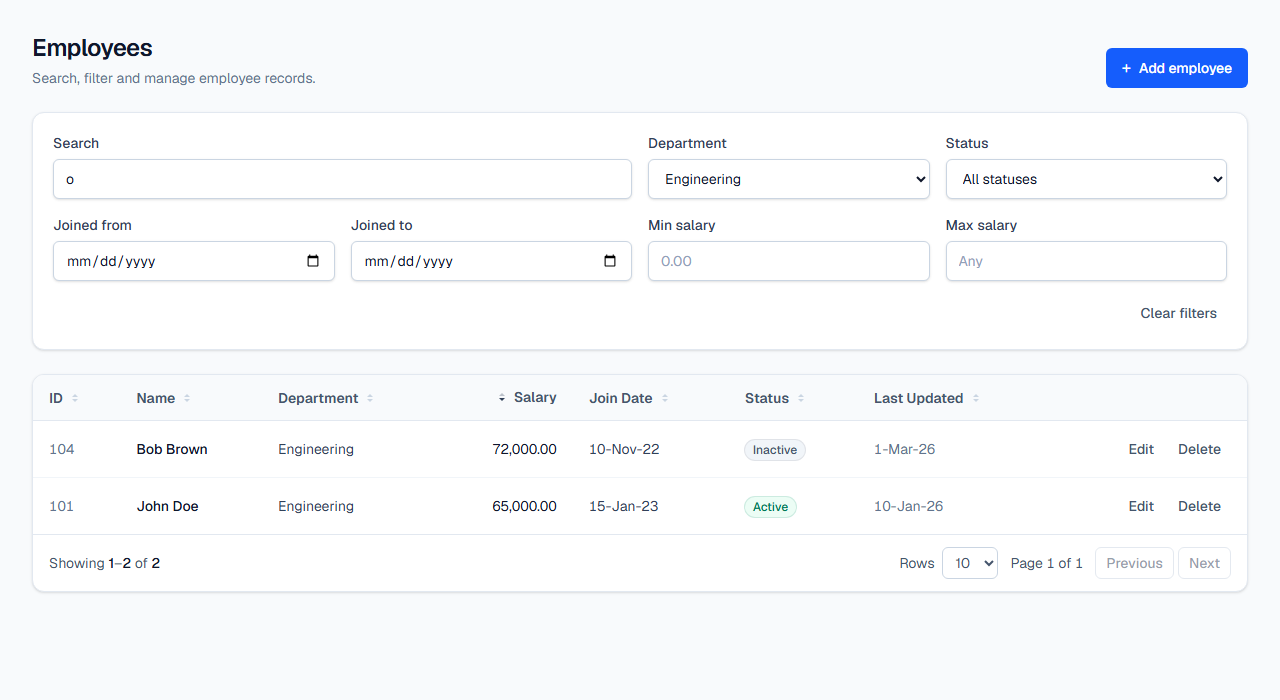
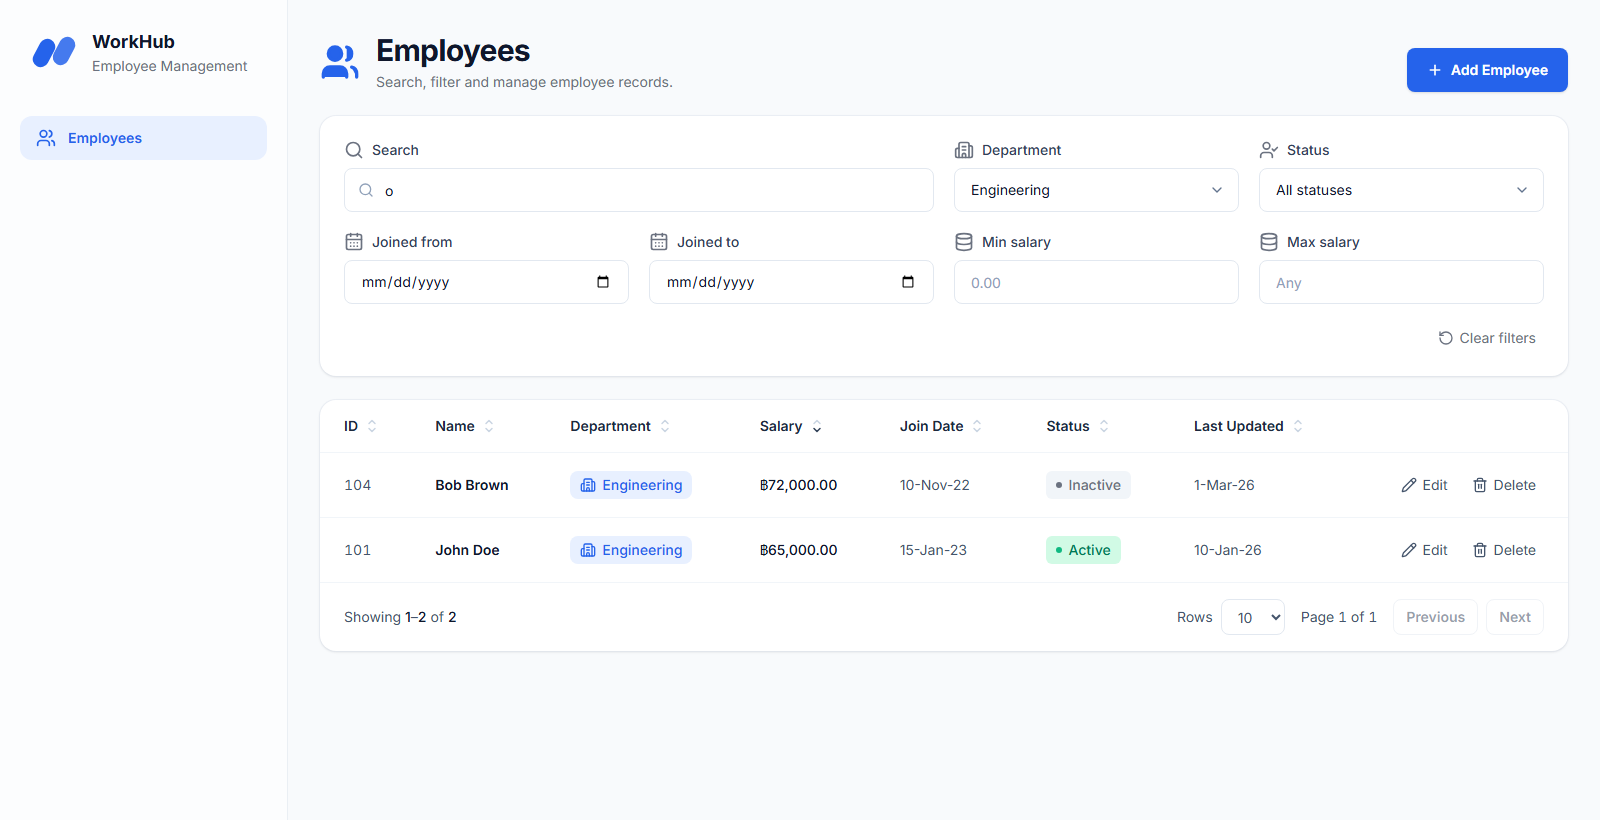
docs: update screenshots and README for the redesign

diff --git a/README.md b/README.md
@@ -15,6 +15,7 @@ Backend: [assignment-employee-management-api](https://github.com/nichapa-nop/ass
 - React 19
 - Tailwind CSS 4
 - SWR for client-side data fetching and cache revalidation
+- lucide-react icons
 - TypeScript
 
 ## Prerequisites
@@ -56,10 +57,10 @@ rebuild after changing them and never put secrets in them.
 |---|---|
 | ID — system generated | Shown read-only; never sent by the form |
 | Name — free text | Text input, required, max 100 characters |
-| Department — dropdown | Select populated from `GET /departments` |
-| Salary — `#,##0.00` | Text input that formats on blur; table shows `65,000.00` |
+| Department — dropdown | Select populated from `GET /departments`; table shows a colored badge per department |
+| Salary — `#,##0.00` | Text input (฿ prefix) that formats on blur; table shows `฿65,000.00` |
 | Join Date — calendar | Native date picker; table shows `15-Jan-23` |
-| Status — checkbox | "Active" checkbox; table shows an Active/Inactive badge |
+| Status — checkbox | "Active" checkbox; table shows an Active/Inactive status pill |
 | Last Updated Date — system stamped | Shown read-only (`d-MMM-yy`) |
 
 - **Search** by name or exact ID (debounced while typing)
@@ -86,10 +87,11 @@ rebuild after changing them and never put secrets in them.
 ```
 src/
 ├── app/                        # layout and the single page route
+├── components/layout/          # app shell: sidebar, brand logo, navigation
 ├── components/ui/              # Button, form controls, Modal, Toast
 ├── features/employees/
 │   ├── api/                    # typed API calls
-│   ├── components/             # page, filters, table, form, dialogs, pagination
+│   ├── components/             # page, filters, table, badges, form, dialogs, pagination
 │   ├── hooks/                  # URL-backed filters, SWR data hooks
 │   ├── lib/                    # filter parsing/serialization, form validation
 │   └── types.ts
